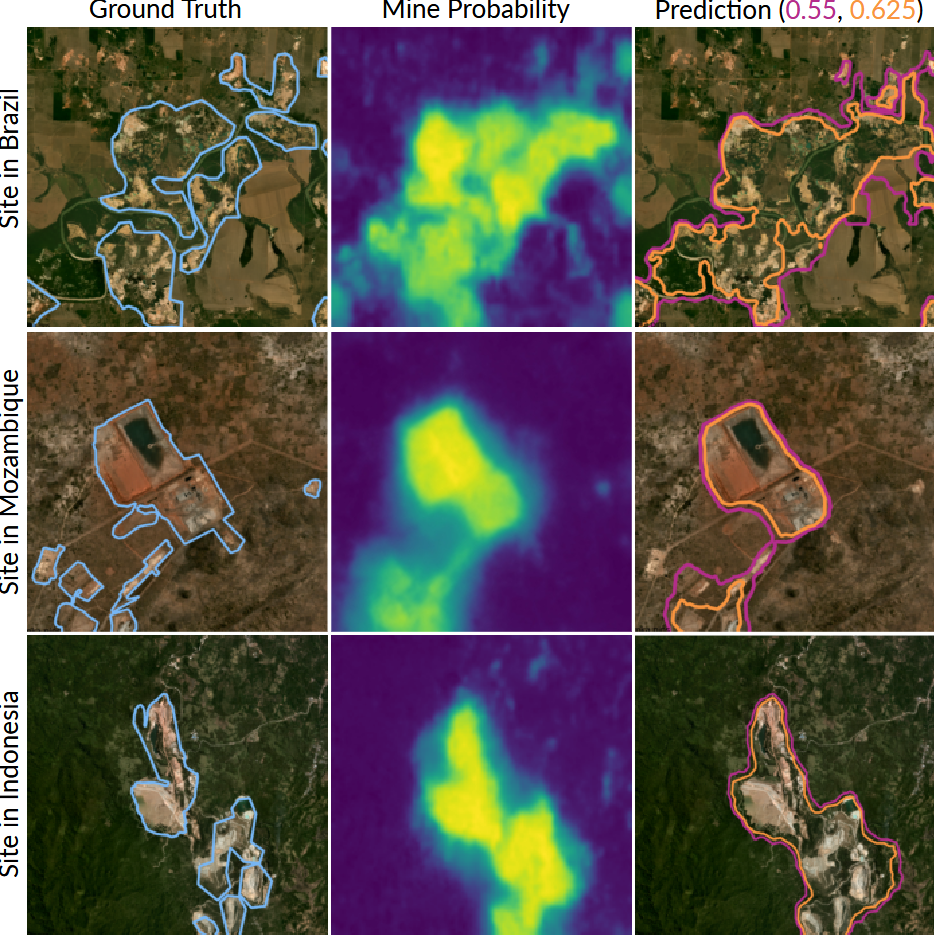
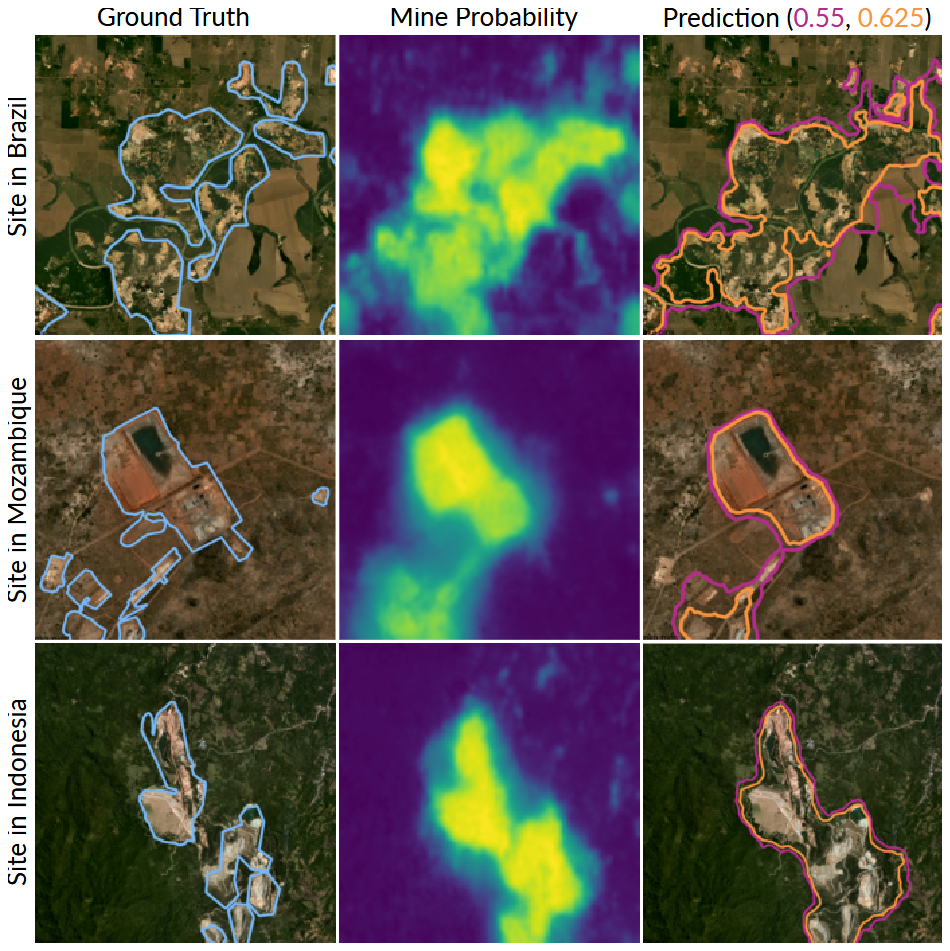
Fixed padding of README image

diff --git a/README.md b/README.md
@@ -11,7 +11,7 @@ This repository provides instructions for creating a panel dataset of tropical m
 </details>
 
 <p align="center">
-  <img src="resources/pred_plot.png" width="750" style="background:white; padding:8px; border:1px solid white; border-radius:10px;" />
+  <img src="resources/pred_plot.png" width="750"/>
 </p>
 
 ---
